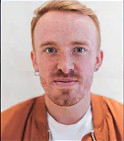
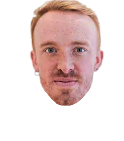
Will photo cropped and new Will added

diff --git a/scripts/content.js b/scripts/content.js
@@ -1,26 +1,3 @@
-// // document.addEventListener('DOMContentLoaded', () => {
-// //     console.log('hello');
-// // const image=document.createElement('img');
-// // image.setAttribute('src','Will.png');
-// // document.querySelector('body').appendChild(image);
-// // image.style.position='sticky';
-// // image.style.top='0';
-// // })
-// console.log('hello');
-// // const image=document.createElement('img');
-// // image.setAttribute('src','Will.png');
-// // document.querySelector('body').appendChild(image);
-// // image.style.position='sticky';
-// // image.style.top='0';
-// chrome.browserAction.onload.addListener(function(tab) {
-
-//     chrome.tabs.executeScript({
-
-// code:`console.log('hello'); const image=document.createElement('img');
-// image.setAttribute('src','images/Will.png');
-// document.querySelector('body').appendChild(image);
-
-// image.style.top='0';`
 
 //     });
 //     window.addEventListener('mousewheel',myHandler,{passive:true});
@@ -42,10 +19,11 @@
 // img.style.top = '0';
 // img.style.zIndex = '9999';
 
-// document.body.appendChild(img);
+document.body.appendChild(img);
 chrome.browserAction.onClicked.addListener(function(tab) {
     chrome.tabs.executeScript({
         code: `
+        console.log(document.getElementById("pages-list").childElementCount);
             const image=document.createElement('img');
             image.setAttribute('src','images/Will.png');
             document.querySelector('body').appendChild(image);
@@ -54,6 +32,29 @@ chrome.browserAction.onClicked.addListener(function(tab) {
             image.style.right = '0';
         `
     });
+
+    chrome.tabs.query({},function(tabs){
+        let tabcount=tabs.length;
+        console.log('number of tabs:'+tabs.length);
+        if(tabcount>5){
+            chrome.tabs.executeScript({
+                code:`
+                const oldImg = document.querySelector('img[src="images/Will.png"]');
+                if (oldImg) {
+                    oldImg.remove();
+                }
+                const newimg=document.createElement('img');
+                newimg.setAttribute('src','images/newWill.jpg');
+                document.querySelector('body').appendChild(newimg);
+                newimg.style.position = 'fixed';
+                newimg.style.top = '0';
+                newimg.style.right = '0'; `            }, function(result) {
+                    if (chrome.runtime.lastError) {
+                        console.error(chrome.runtime.lastError);
+                    }
+            })
+        }
+        })
 
     window.addEventListener('mousewheel', myHandler, { passive: true });
     window.addEventListener('touchstart', myHandler, { passive: true });
@@ -68,3 +69,4 @@ function myHandler(event) {
         document.body.scrollTop -= 50;
     }
 }
+

diff --git a/hello.html b/hello.html
@@ -1,3 +1,5 @@
 <body>
-    
+  <h1>
+How many tabs do you have open?
+  </h1>
 </body>
